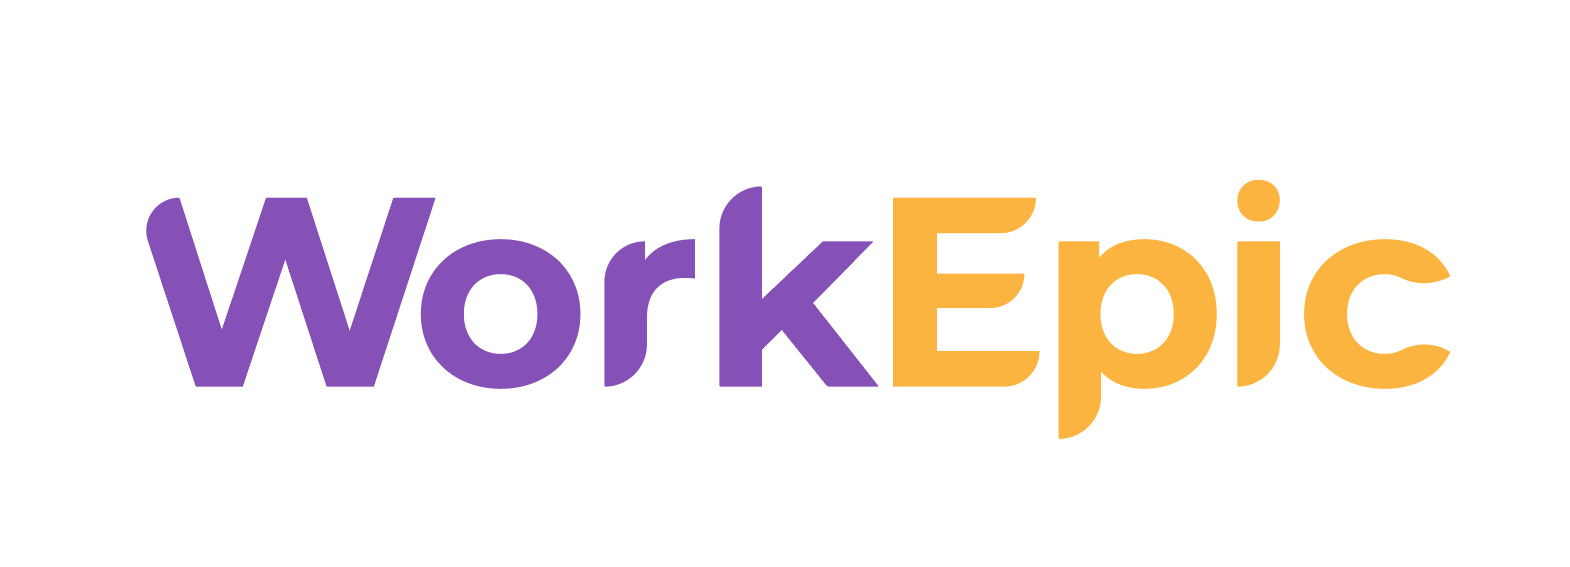
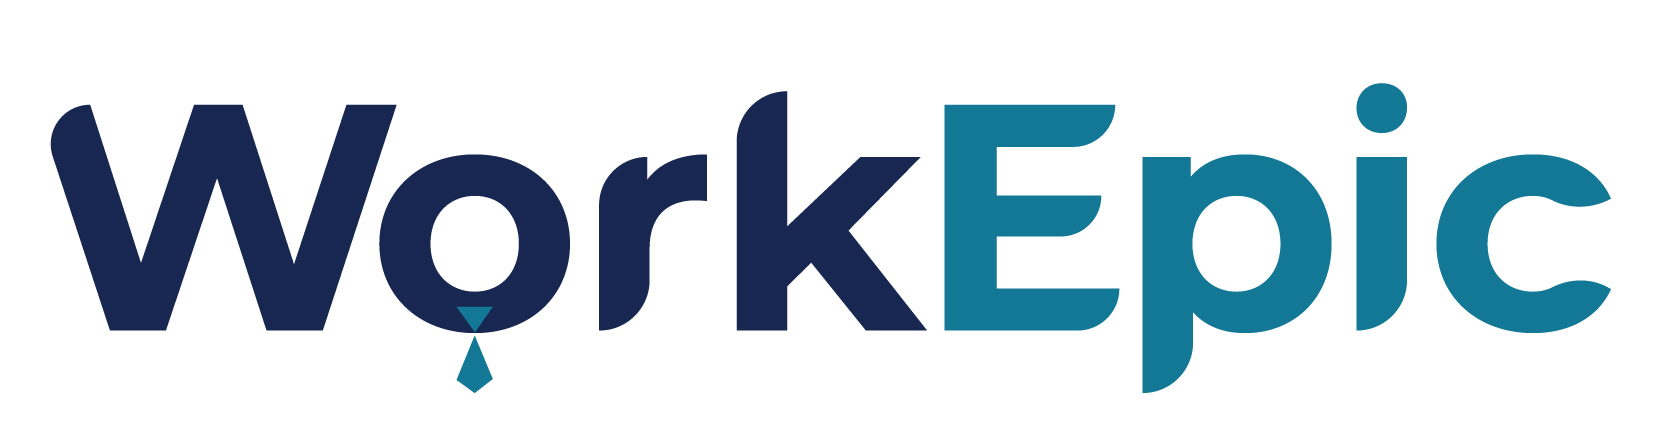
Update to p94 colors

diff --git a/client/dashboard.css b/client/dashboard.css
@@ -12,7 +12,7 @@
   border: none;
   outline: none;
   cursor: pointer;
-  color: #8551b6;
+  color: #1a2a54;
   font-size: large;
   padding: 5px 10px;
   border-radius: 10px;
@@ -46,12 +46,12 @@
 .pay-to-access-btn:hover,
 .admin-report-toggle:hover,
 .admin-answers-toggle:hover {
-  color: #fbb440;
+  color: #23718e;
   background: #ffffff;
 }
 .downloadReportBtn:hover {
   color: #ffffff;
-  background: #fbb440;
+  background: #23718e;
 }
 #dashboard-assess,
 #dashboard-assessAdmin {
@@ -59,7 +59,7 @@
   width:100%;
   display: flex;
   flex-direction: column;
-  background: #8551b6;
+  background: #1b234d;
 }
 #dashboard-img {
   margin: 10px;
@@ -98,11 +98,11 @@
 }
 
 #auth-error {
-  color: orange; /* Default error color */
+  color: red; /* Default error color */
 }
 #dashboard-error-message {
   width: 100%;
-  color: orange;
+  color: red;
   margin-top: 10px;
   text-align: center;
   font-size: smaller;
@@ -113,7 +113,7 @@
   font-size: smaller;  
 }
 .last-reportBtn {
-  color:#8551b6;
+  color:#1b234d;
   background:#ffffff;
 }
 
@@ -164,7 +164,7 @@
   width: 100%;
   border: none;
   outline: none;
-  color:#8551b6;
+  color:#1b234d;
   cursor: pointer;
   font-size: large;
   padding: 5px 1px;
@@ -202,10 +202,10 @@
   height: 260px;
   overflow-y: scroll;
   margin-bottom: 10px;
-  background: #6A4091;
+  background: #1b234d;
   border-top-left-radius: 10px;
   border-bottom-left-radius: 10px;
-  box-shadow: 1px 1px 3px 1px #352048;
+  box-shadow: 1px 1px 1px 1px #000000;
 }
 .admin-user-card {
   font-size: small;
@@ -275,15 +275,17 @@
 }
 
 .answers-table th {
-  background: rgb(251, 180, 64);
+  color: #ffffff;
+  background: #1b234d;
 }
 .answers-table tbody tr:nth-child(even) {
-  background-color: violet;
-}.answers-table tbody tr:nth-child(odd) {
-  background-color: #8551b6;
+  background-color: #1b234d;
+}
+.answers-table tbody tr:nth-child(odd) {
+  background-color: #9ecae1;
 }
 .landing-container {
-    background: #8551b6;
+    background: #1b234d;
 }
 @media screen and (max-width: 400px) {
    .spanContainer {

diff --git a/client/index.css b/client/index.css
@@ -33,7 +33,7 @@ p {
 }
 .ubuntu-text p {
     margin: 0;
-    color: #8551b6;
+    color: #1a2a54;
     font-weight: bold;
     font-size: x-large;
 }
@@ -48,10 +48,10 @@ p {
 }
 #home-container {
     padding: 1em;
-    color: #8551b6;
+    color: #ffffff;
     backdrop-filter: blur(5px);
     -webkit-backdrop-filter: blur(5px);
-    background-color: rgba(255, 255, 255, 0.9);
+    background-color: rgba(255, 255, 255, 0.0);
 }
 .landing-container h1 {
     margin: 0;
@@ -69,7 +69,7 @@ p {
     font-size: larger;
 }
 .highlight {
-    color: #fbb440;
+    color: #23718e;
 }
 .assessment a {
     margin: auto;
@@ -77,16 +77,16 @@ p {
     display: block;
     cursor: pointer;
     max-width: 400px;
-    color: #ffffff;
+    color: #23718e;
     text-align: center;
     border-radius: 10px;
     text-decoration: none;
-    background: #8551b6;
-    box-shadow: 1px 1px 3px 1px #352048; 
+    background: #ffffff;
+    box-shadow: 1px 1px 3px 1px #000; 
 }
 #read-more {
     padding: 0;
-    color: #fbb440;
+    color: #ffffff;
     text-align: left;
     box-shadow: none;
     width: fit-content;
@@ -96,7 +96,8 @@ p {
     text-decoration:underline; 
 }
 .assessment a:hover {
-    background:	#fbb440;  
+    background:	#23718e;
+    color: #ffffff;
 }
 nav {
     display: flex;
@@ -113,7 +114,7 @@ nav a {
 nav a:hover, 
 nav a:active,
 nav a:focus {
-    color: #fbb440;
+    color: #23718e;
     text-decoration: underline;
 }
 #downloadReportBtn {

diff --git a/client/quiz.css b/client/quiz.css
@@ -10,11 +10,11 @@ body {
 }
 header h1 {
     font-size: 2rem;
-    color: #8551b6;
+    color: #1a2a54;
     text-align: center;
 }
 #progress-text {
-    color: #fbb440;
+    color: #1a2a54
 }
 .logo {
     max-width: 150px;
@@ -53,10 +53,7 @@ button {
     font-family: inherit; 
 }
 .option-button:hover {
-    background: rgba(128, 128, 128,0.2);
-}
-.option-button:focus {
-    background: #A9A9A9;
+    background: rgba(128, 128, 128,0.5);
 }
 #result,
 #quiz-container {
@@ -71,18 +68,18 @@ button {
 .option-button {
     color: #000000;
     text-align: left;
-    background: rgba(25,25,122,0.2);
+    background: rgba(25,25,122,0.3);
 }
 .option-button:focus,
 .option-button:active{
     outline: none; 
     color: #ffffff;
-    background: #8551b6;
+    background: #23718e;
 }
 #next-btn {
     min-width: 150px;
     color: #ffffff;
-    background: #36454F;
+    background: #1a2a54;
 }
 #result {
     display: none; 
@@ -172,7 +169,7 @@ th, td {
 }
 .active {
     color: #ffffff;
-    background: #8551b6;
+    background: #23718e;
 }
 .storage-notice {
     color: #666;

diff --git a/client/auth.css b/client/auth.css
@@ -5,7 +5,7 @@
 }
 #auth-container {
     margin: auto;
-    color: #8551b6;
+    color: #1b234d;
     margin-top: 15px;
     max-width: 400px;
     border-radius: 10px;
@@ -47,7 +47,7 @@ input {
     color: #ffffff;
     font-weight: 500;
     border-radius: 10px;
-    background: #8551b6;
+    background: #1a2a54;
     box-shadow: 1px 1px 1px 1px gainsboro;   
 }
 #show-login,
@@ -56,7 +56,7 @@ input {
     border: none;
     cursor: pointer;
     font-size: large;
-    color:  #8551b6;
+    color:  #23718e;
     font-family: inherit;
     background: transparent;
     text-decoration: underline;
@@ -65,15 +65,15 @@ input {
 #signup-btn:hover {
     border: none;
     color: #ffffff;
-    background: #fbb440;
+    background: #23718e;
 }
- #show-login:hover,
+#show-login:hover,
 #show-signup:hover {
-    color: #fbb440;
+    color: #23718e;
 }
 #auth-error {
     width: 100%;
-    color: orange;
+    color: red;
     margin-top: 10px;
     text-align: center;
     font-size: smaller;

diff --git a/client/contact.css b/client/contact.css
@@ -41,18 +41,18 @@ textarea {
     height: 100px;
 }
 .contact-container span {
-    color: #8551b6;
+    color: #1a2a54;
     text-align: center;
 }
 button {
     border: none;
     color: #ffffff;
     cursor: pointer;
-    background: #8551b6;
+    background: #1a2a54;
     box-shadow: 1px 1px 1px 1px #ccc;   
 }
 button:hover {
-    background: #fbb440;
+    background: #23718e;
 }
 .hidden {
   position: absolute;
